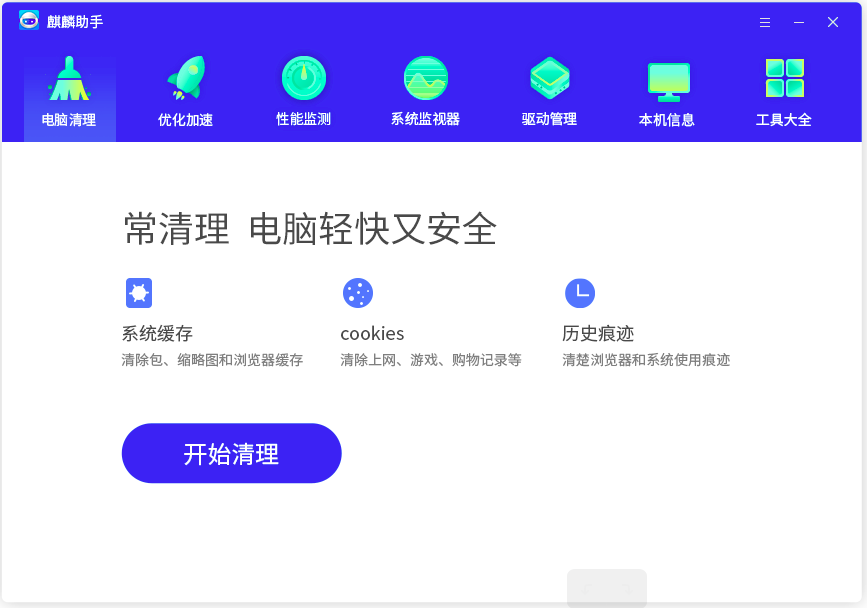
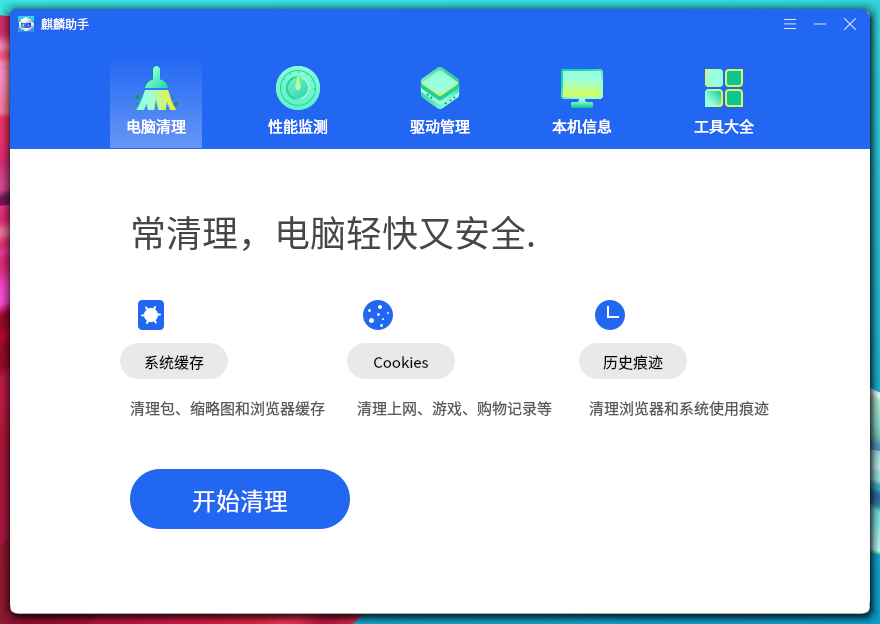
modify index.md & refresh one app     * modify ukui & ukui-control-ceter's index.md     * refresh kylin-assistant's index.md & *.png

diff --git a/data/guide-ubuntukylin/kylin-assistant/en_US/index.md b/data/guide-ubuntukylin/kylin-assistant/en_US/index.md
@@ -2,7 +2,7 @@
 ## Overview
 Kylin Assistant as a system-level configuration tool, mainly for the system to expand the configuration. In addition, you can check the hardware details of the current computer in real time, so that users can better understand the composition of the computer.
 
-Kylin Assistant provides 7 functions.
+Kylin Assistant provides 5 functions.
 
 ![Fig. 1 Kylin Assistant-big](image/1.png)
 
@@ -21,55 +21,32 @@ Users can click the "Details" button to see the informations.
 
 <br>
 
-## Optimized Acceleration
-
-It provides three options: 
-
-- Startup at power on: Optimize boot-up softwares.
-
-- System speedup: Optimize system and memory settings.
-
-- Software speedup: Exit softwares which are temporarily unused.
-
-![Fig. 3 Optimization and Speedup-big](image/3.png)
-
-Clicking the "Speedup Immediately" button, the program begins to scan the optimized options. After the scan is complete, "One-click Optimizing" button shows up, as shown below.
-
-![Fig. 4 One-click Optimizing-big](image/4.png)
-
-Users can click the "Details" button to see the informations.
-
-<br>
-
 ## Performance Monitor
-Users can get the informations about device temperature, fan speed and CPU FM through this feature. 
+Users can get the informations about device temperature, CPU FM through this feature. 
 
-![Fig. 5 Performance Monitor-big](image/5.png)
+![Fig. 3 Performance Monitor-big](image/3.png)
 
 <br>
 
 ## Driver Manager
-Users can get the version of all drivers in the system though this feature. It can upgrade the driver's version, backup and restore the drivers, uninstall the drivers also.
+Users can get the version of all drivers in the system though this feature. 
  
-![Fig. 6 Driver Manager-big](image/6.png)
+![Fig. 4 Driver Manager-big](image/4.png)
 
 <br>
 
 ## Local Information
 Users can get the informations of this compuer (including model, kernel architecture, OS version, etc) and kinds of hardwares. 
 
-![Fig. 7 Local Information up-big](image/7.png)
+![Fig. 5 Local Information up-big](image/5.png)
  
-![Fig. 8 Hardware Information-big](image/8.png)
+![Fig. 6 Hardware Information-big](image/6.png)
 
 ## Tools
 As the extension of Kylin Assistant, "Tools" uses plug-in development mode, and all functions are integrated into Kylin Assistant in the form of plug-ins. The main interface is shown in the figure below.
  
-![Fig.9 Tools-big](image/9.png)
+![Fig.7 Tools-big](image/7.png)
 
 <br>
 
-## FAQ
-### No "Memory" information be seen in "Local Information"
-Because Kylin Assistant does not get the memory information from the underlying interface, the "Memory" entry will not be displayed on the interface either.
 

diff --git a/data/guide-ubuntukylin/kylin-assistant/zh_CN/index.md b/data/guide-ubuntukylin/kylin-assistant/zh_CN/index.md
@@ -2,7 +2,7 @@
 ## 概 述
 麒麟助手作为系统级工具配置工具，主要针对系统配置进行扩展性加强配置，另外可以实时查询当前计算机的硬件详细信息，便于用户加深了解计算机组成。
 
-麒麟助手提供了7个功能。
+麒麟助手提供了5个功能。
 
 ![图 1 麒麟助手-big](image/1.png)
 
@@ -21,56 +21,34 @@
 
 <br>
 
-## 优化加速
-该功能提供了三个可加速的选项：
-
-- 开机启动：优化开机启动软件；
-
-- 系统加速：优化系统和内存设置；
-
-- 软件加速：退出暂时不使用的软件。
-
-![图 3 立即加速-big](image/3.png)
-
-点击“立即加速”按钮，程序开始对加速项进行扫描；扫描完成后，界面出现“一键优化”按钮，如下图所示。
-
-![图 4 一键优化-big](image/4.png)
-
-用户可点击“详情”，查看具体情况。
-
-<br>
-
 ## 性能监测
-用户可通过该功能，查看设备温度、风扇转速和CPU调频的信息。
+用户可通过该功能，查看设备温度、CPU调频的信息。
 
-![图 5 性能监测-big](image/5.png)
+![图 3 性能监测-big](image/3.png)
 
 <br>
 
 ## 驱动管理
-用户可通过该功能，查看系统中所有驱动的当前版本，以及对驱动进行升级、备份还原和卸载。
+用户可通过该功能，查看系统中所有驱动的当前版本。
  
-![图 6 驱动管理-big](image/6.png)
+![图 4 驱动管理-big](image/4.png)
 
 <br>
 
 ## 本机信息
 用户可通过该功能，查看本机系统，包含型号、内核架构、操作系统版本等，和各项硬件信息。
  
-![图 7 本机系统-big](image/7.png)
+![图 5 本机系统-big](image/5.png)
  
-![图 8 硬件信息-big](image/8.png)
+![图 6 硬件信息-big](image/6.png)
 
 <br>
 
 ## 工具大全
 “工具大全”作为麒麟助手的功能扩展，使用了插件的开发模式，其中的所有功能均以插件的形式整合进麒麟助手，主界面如下图所示。
  
-![图9工具大全-big](image/9.png)
+![图 7 工具大全-big](image/7.png)
 
 <br>
 
-## 常见问题
-### “本机信息”中未看到“内存”信息
-出现该情况是因为麒麟助手从底层接口未获取到内存相关信息，所以界面上也不会显示“内存”条目。
 

diff --git a/data/guide-ubuntukylin/ukui-control-center/en_US/index.md b/data/guide-ubuntukylin/ukui-control-center/en_US/index.md
@@ -435,13 +435,13 @@ In this section,users can find details about the version, version number, instal
 ![Fig. 54 about native system-big](image/54.png)
 
 ## FAQ
-## Can’t start? 
+### Can’t start? 
 No response when I click the "Control Center" button on the "Start Menu"?
 
 Press Ctrl+Alt+t on the keyboard to open the command line terminal, type ukui-control-center and then press Enter.
 
 View error output.
-## Can’t change the configuration? 
+### Can’t change the configuration? 
 After modifying the control state, the control immediately reverts to its pre-modification state?
 
 It is highly likely that the reason for the above problems is due to a question of authority. Use the following methods to fix the problem.

diff --git a/data/guide-ubuntukylin/ukui-control-center/zh_CN/index.md b/data/guide-ubuntukylin/ukui-control-center/zh_CN/index.md
@@ -438,13 +438,13 @@
 ![图 54 关于本机系统-big](image/54.png)
 
 ## 常见问题
-## 无法启动？
+### 无法启动？
 点击“开始菜单”上的“控制面板”按钮无反应？
 
 在键盘上按下Ctrl+Alt+t组合键打开命令行终端，输入ukui-control-center后按下回车。
 
 查看错误输出
-## 无法修改配置？
+### 无法修改配置？
 修改控件状态后，控件立刻还原到修改前状态？
 
 出现上述问题的原因大概率是因为权限问题。使用如下方法修复问题。

diff --git a/data/guide-ubuntukylin/ukui/zh_CN/index.md b/data/guide-ubuntukylin/ukui/zh_CN/index.md
@@ -323,12 +323,6 @@ U盘插入主机后，自动读取U盘数据，点击任务栏中U盘“![](imag
 <br>
 
 ## 常见问题
-### 任务栏不显示？
-（1）通过Ctrl + Alt + T打开终端。
-
-（2）执行命令“sudo mate-panel --reset”，重新启动任务栏。
-
-（3）若依然未生效，可执行命令“reboot”，重启系统。
 
 ### 锁屏后无法登录系统？
 （1）通过Ctrl + Alt + F1切换到字符终端。

diff --git a/data/guide-ubuntukylin/ukui/en_US/index.md b/data/guide-ubuntukylin/ukui/en_US/index.md
@@ -336,13 +336,6 @@ The options are described in table below.
 <br>
 
 ## FAQ
-### Taskbar not showing?
-（1）Open the terminal by < Ctrl + Alt + T >.
-
-（2）Do "sudo mate-panel --reset" to restart the Taskbar.
-
-（3）If it's still not effective, please do "reboot".
-
 
 ### Can’t login to the system after locking the screen?
 
